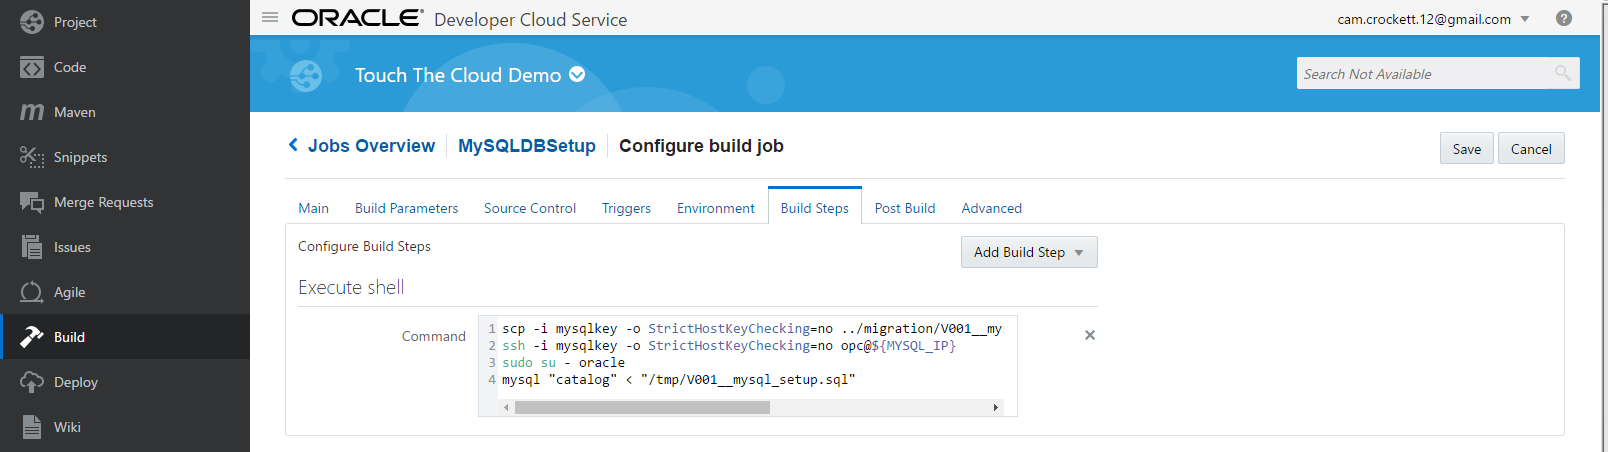
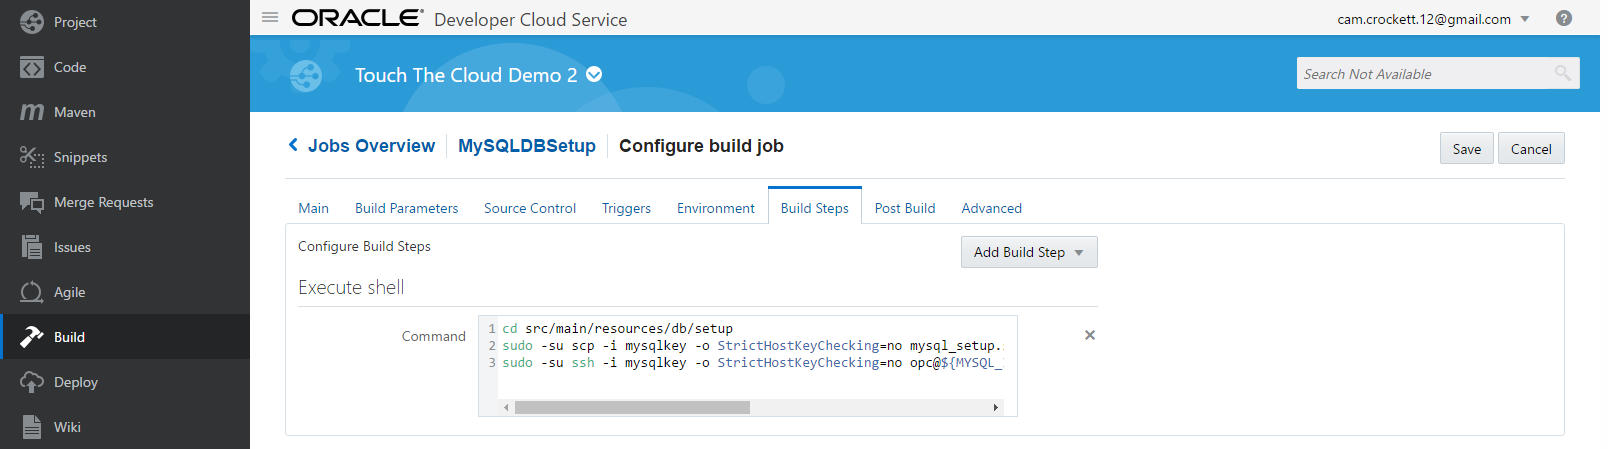
Updating steps in lab 300 and images for lab

diff --git a/LabGuide300.md b/LabGuide300.md
@@ -14,7 +14,7 @@ Please direct comments to: Cam Crockett (cam.crockett@oracle.com)
 
 ## Required Artifacts
 - We will be leveraging scripts found within the MySQL Microservice from lab 200 that was pulled from [GitHub: https://github.com/c-rocket/TTC-MySQLMicroservice.git](https://github.com/c-rocket/TTC-MySQLMicroservice.git)
-- We will require an ssh key: [labkey](labkey)
+- We will require an ssh key: [labkey](labkey.pub)
 
 ## Prerequisites
 
@@ -61,8 +61,9 @@ Name: CatalogDB
 
 
 ```
+
 Compute Shape: OC3
-SSH Key: <use labkey found in required artifacts>
+SSH Key: <use labkey.pub found in required artifacts>
 Usable DB Storage: 25
 Administration Username: root
 Password: Oracle123!
@@ -117,6 +118,7 @@ Backup Destination: none
 
 
 ```
+
 Name: MYSQL_IP
 Default Value: <Public IP of MySQL DB>
 ```
@@ -130,6 +132,7 @@ Default Value: <Public IP of MySQL DB>
 - Select the **Build Step** and add a Shell Build step
 
 ```shell
+
 cd src/main/resources/db/setup
 sudo -su scp -i mysqlkey -o StrictHostKeyChecking=no mysql_setup.sql opc@${MYSQL_IP}:/tmp/mysql_setup.sql
 sudo -su ssh -i mysqlkey -o StrictHostKeyChecking=no opc@${MYSQL_IP} sudo su - oracle -c 'mysql "catalog" < "/tmp/mysql_setup.sql"'
@@ -165,6 +168,7 @@ sudo -su ssh -i mysqlkey -o StrictHostKeyChecking=no opc@${MYSQL_IP} sudo su - o
 - Select Add under Service Bindings
 
 ```
+
 Service Type: MySQL CS Service
 Service name: Catalog DB
 Username: root
@@ -183,7 +187,7 @@ Password: Oracle123!
 
 ![](images/300/step24.png)
 
-### **STEP 6**: Verify the Catalog Data
+### **STEP 5**: Verify the Catalog Data
 
 - Return to the main screen for Application Container Cloud Service
 
